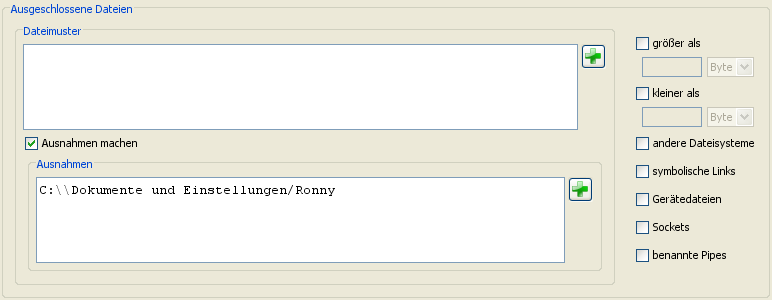
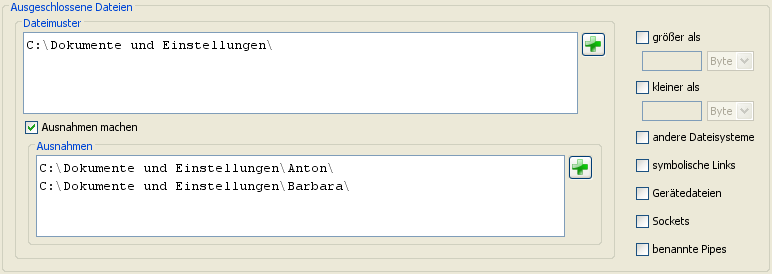
fixed sanity check on Windows with Java 7 updated Italian windows screenshots improved screenshot generation

diff --git a/src/ch/fhnw/jbackpack/BackupMainPanel.java b/src/ch/fhnw/jbackpack/BackupMainPanel.java
@@ -1180,6 +1180,7 @@ public class BackupMainPanel extends JPanel implements DocumentListener {
         filePatternsPanel.setBorder(javax.swing.BorderFactory.createTitledBorder(bundle.getString("BackupMainPanel.filePatternsPanel.border.title"))); // NOI18N
         filePatternsPanel.setLayout(new java.awt.GridBagLayout());
 
+        excludesTextArea.setName("excludesTextArea");
         excludesScrollPane.setViewportView(excludesTextArea);
 
         gridBagConstraints = new java.awt.GridBagConstraints();
@@ -1203,6 +1204,7 @@ public class BackupMainPanel extends JPanel implements DocumentListener {
         filePatternsPanel.add(addExcludesButton, gridBagConstraints);
 
         includesCheckBox.setText(bundle.getString("BackupMainPanel.includesCheckBox.text")); // NOI18N
+        includesCheckBox.setName("includesCheckBox");
         includesCheckBox.addItemListener(new java.awt.event.ItemListener() {
             public void itemStateChanged(java.awt.event.ItemEvent evt) {
                 includesCheckBoxItemStateChanged(evt);
@@ -1216,6 +1218,7 @@ public class BackupMainPanel extends JPanel implements DocumentListener {
         includesPanel.setBorder(javax.swing.BorderFactory.createTitledBorder(bundle.getString("BackupMainPanel.includesPanel.border.title"))); // NOI18N
         includesPanel.setLayout(new java.awt.GridBagLayout());
 
+        includesTextArea.setName("includesTextArea");
         includesScrollPane.setViewportView(includesTextArea);
 
         gridBagConstraints = new java.awt.GridBagConstraints();
@@ -2447,6 +2450,7 @@ public class BackupMainPanel extends JPanel implements DocumentListener {
 
         gridBagConstraints = new java.awt.GridBagConstraints();
         gridBagConstraints.gridwidth = java.awt.GridBagConstraints.REMAINDER;
+        gridBagConstraints.ipadx = 40;
         gridBagConstraints.insets = new java.awt.Insets(5, 0, 0, 0);
         sessionStatisticsPanel.add(statisticsTextFieldScrollPane, gridBagConstraints);
 
@@ -3827,12 +3831,16 @@ public class BackupMainPanel extends JPanel implements DocumentListener {
         }
 
         // check that user can change permissions of this directory
-        if (sourceDirectory.setWritable(false)) {
-            sourceDirectory.setWritable(true);
-        } else {
-            showRestoreErrorPanel(BUNDLE.getString(
-                    "Error_Source_Directory_Unmodifiable"));
-            return false;
+        // This test does not work on Windows, see
+        // http://bugs.sun.com/bugdatabase/view_bug.do?bug_id=6728842
+        if (CurrentOperatingSystem.OS != OperatingSystem.Windows) {
+            if (sourceDirectory.setWritable(false)) {
+                sourceDirectory.setWritable(true);
+            } else {
+                showRestoreErrorPanel(BUNDLE.getString(
+                        "Error_Source_Directory_Unmodifiable"));
+                return false;
+            }
         }
 
         return true;

diff --git a/test/screenshots/Screenshots.java b/test/screenshots/Screenshots.java
@@ -80,6 +80,8 @@ public final class Screenshots {
      * @param encryptionControlFileName the filename for the encryption control
      * screenshot
      * @param basicBackupFileName the filename for the basic backup screenshot
+     * @param excludes the excludes
+     * @param includes the includes
      * @param excludesFileName the filename for the excludes screenshot
      * @param backupFileName the file to show for the running backup screenshot
      * @param runningBackupFilenName the filename of a running backup screenshot
@@ -99,12 +101,12 @@ public final class Screenshots {
             String sshScreenshotFileName, String sshLoggedInFileName,
             String smbShare, String smbScreenshotFileName,
             String encryptionFileName, String encryptionControlFileName,
-            String basicBackupFileName, String excludesFileName,
-            String backupFileName, String runningBackupFilenName,
-            String backupStatisticsFileName, String restoreFileName,
-            String advancedSettingsFileName, String fileMenuFileName,
-            String preferences1FileName, String preferences2FileName)
-            throws Exception {
+            String basicBackupFileName, String excludes, String includes,
+            String excludesFileName, String backupFileName,
+            String runningBackupFilenName, String backupStatisticsFileName,
+            String restoreFileName, String advancedSettingsFileName,
+            String fileMenuFileName, String preferences1FileName,
+            String preferences2FileName) throws Exception {
 
         // make sure that path exists
         File directory = new File(screenshotPath);
@@ -319,6 +321,15 @@ public final class Screenshots {
         JCheckBoxOperator excludeCheckBoxOperator = new JCheckBoxOperator(
                 frameOperator, new NameComponentChooser("excludeCheckBox"));
         excludeCheckBoxOperator.setSelected(true);
+        JTextAreaOperator excludesTextAreaOperator = new JTextAreaOperator(
+                frameOperator, new NameComponentChooser("excludesTextArea"));
+        excludesTextAreaOperator.setText(excludes);
+        JCheckBoxOperator includeCheckBoxOperator = new JCheckBoxOperator(
+                frameOperator, new NameComponentChooser("includesCheckBox"));
+        includeCheckBoxOperator.setSelected(true);
+        JTextAreaOperator includesTextAreaOperator = new JTextAreaOperator(
+                frameOperator, new NameComponentChooser("includesTextArea"));
+        includesTextAreaOperator.setText(includes);
         JComponentOperator excludesPanelOperator = new JComponentOperator(
                 frameOperator, new NameComponentChooser("excludesPanel"));
         if (excludesFileName != null) {

diff --git a/test/screenshots/GermanScreenshotTest.java b/test/screenshots/GermanScreenshotTest.java
@@ -50,16 +50,21 @@ public class GermanScreenshotTest extends TestCase {
 
         switch (CurrentOperatingSystem.OS) {
             case Linux:
-                doScreenShots("nimbus", "/home/benutzer/", "verzeichnis/datei");
+                doScreenShots("nimbus", "/home/benutzer/", "/home/",
+                        "/home/anton/\n/home/barbara/", "verzeichnis/datei");
                 break;
 
             case Mac_OS_X:
-                doScreenShots("aqua", "/Users/benutzer/", "verzeichnis/datei");
+                doScreenShots("aqua", "/Users/benutzer/", "/Users/",
+                        "/Users/anton/\n/Users/barbara/", "verzeichnis/datei");
                 break;
 
             case Windows:
                 doScreenShots("windows",
                         "C:\\Dokumente und Einstellungen\\Benutzer\\",
+                        "C:\\Dokumente und Einstellungen\\",
+                        "C:\\Dokumente und Einstellungen\\Anton\\\n"
+                        + "C:\\Dokumente und Einstellungen\\Barbara\\",
                         "Verzeichnis\\Datei");
                 break;
 
@@ -69,15 +74,15 @@ public class GermanScreenshotTest extends TestCase {
         }
     }
 
-    private void doScreenShots(String plaf, String userHome, String backupFile)
-            throws Exception {
+    private void doScreenShots(String plaf, String userHome, String excludes,
+            String includes, String backupFile) throws Exception {
         Screenshots.doScreenShots(Locale.GERMAN, "doc/docbook/" + plaf + "/de/",
                 userHome, "Hauptfenster", "benutzer", "/datensicherung", "SSH",
                 "Angemeldet", "datensicherung", "SMB", "Verschluesselung",
-                "VerschluesselungSteuerung", "Datensicherung",
-                "DateienAusschliessen", backupFile, "Laufende_Datensicherung",
-                "Datensicherungsstatistik", "Wiederherstellung",
-                "Erweiterte_Einstellungen", "DateiMenue", "Einstellungen1",
-                "Einstellungen2");
+                "VerschluesselungSteuerung", "Datensicherung", excludes,
+                includes, "DateienAusschliessen", backupFile,
+                "Laufende_Datensicherung", "Datensicherungsstatistik",
+                "Wiederherstellung", "Erweiterte_Einstellungen", "DateiMenue",
+                "Einstellungen1", "Einstellungen2");
     }
 }

diff --git a/test/screenshots/ItalianScreenshotTest.java b/test/screenshots/ItalianScreenshotTest.java
@@ -50,16 +50,21 @@ public class ItalianScreenshotTest extends TestCase {
 
         switch (CurrentOperatingSystem.OS) {
             case Linux:
-                doScreenShots("nimbus", "/home/user/", "directory/file");
+                doScreenShots("nimbus", "/home/utente/", "/home/", 
+                        "/home/alice/\n/home/paolo/", "directory/file");
                 break;
 
             case Mac_OS_X:
-                doScreenShots("aqua", "/Users/user/", "directory/file");
+                doScreenShots("aqua", "/Users/utente/", "/Users/",
+                        "/Users/alice/\n/Users/paolo/", "directory/file");
                 break;
 
             case Windows:
                 doScreenShots("windows",
-                        "C:\\Documents and Settings\\User\\",
+                        "C:\\Documenti e Impostazioni\\Utente\\",
+                        "C:\\Documenti e Impostazioni\\",
+                        "C:\\Documenti e Impostazioni\\Alice\\\n"
+                        + "C:\\Documenti e Impostazioni\\Paolo\\",
                         "Directory\\File");
                 break;
 
@@ -69,14 +74,14 @@ public class ItalianScreenshotTest extends TestCase {
         }
     }
 
-    private void doScreenShots(String plaf, String userHome, String backupFile)
-            throws Exception {
+    private void doScreenShots(String plaf, String userHome, String excludes,
+            String includes, String backupFile) throws Exception {
         Screenshots.doScreenShots(Locale.ITALIAN,
                 "doc/docbook/" + plaf + "/it/", userHome, "MainWindow",
                 "user", "/backup", "SSH", "LoggedIn", "backup", "SMB",
-                "Encryption", "EncryptionControl", "Backup", "Excludes",
-                backupFile, "Running_Backup", "Backup_Statistics", "Restore",
-                "Advanced_Settings", "FileMenu", "Preferences1",
+                "Encryption", "EncryptionControl", "Backup", excludes, includes,
+                "Excludes", backupFile, "Running_Backup", "Backup_Statistics",
+                "Restore", "Advanced_Settings", "FileMenu", "Preferences1",
                 "Preferences2");
     }
 }

diff --git a/test/screenshots/EnglishScreenshotTest.java b/test/screenshots/EnglishScreenshotTest.java
@@ -50,16 +50,21 @@ public class EnglishScreenshotTest extends TestCase {
 
         switch (CurrentOperatingSystem.OS) {
             case Linux:
-                doScreenShots("nimbus", "/home/user/", "directory/file");
+                doScreenShots("nimbus", "/home/user/", "/home/", 
+                        "/home/alice/\n/home/bob/", "directory/file");
                 break;
 
             case Mac_OS_X:
-                doScreenShots("aqua", "/Users/user/", "directory/file");
+                doScreenShots("aqua", "/Users/user/", "/Users/",
+                        "/Users/alice/\n/Users/bob/", "directory/file");
                 break;
 
             case Windows:
                 doScreenShots("windows",
                         "C:\\Documents and Settings\\User\\",
+                        "C:\\Documents and Settings\\",
+                        "C:\\Documents and Settings\\Alice\\\n"
+                        + "C:\\Documents and Settings\\Bob\\",
                         "Directory\\File");
                 break;
 
@@ -69,14 +74,14 @@ public class EnglishScreenshotTest extends TestCase {
         }
     }
 
-    private void doScreenShots(String plaf, String userHome, String backupFile)
-            throws Exception {
+    private void doScreenShots(String plaf, String userHome, String excludes,
+            String includes, String backupFile) throws Exception {
         Screenshots.doScreenShots(Locale.ENGLISH,
                 "doc/docbook/" + plaf + "/en/", userHome, "MainWindow",
                 "user", "/backup", "SSH", "LoggedIn", "backup", "SMB",
-                "Encryption", "EncryptionControl", "Backup", "Excludes",
-                backupFile, "Running_Backup", "Backup_Statistics", "Restore",
-                "Advanced_Settings", "FileMenu", "Preferences1",
+                "Encryption", "EncryptionControl", "Backup", excludes, includes,
+                "Excludes", backupFile, "Running_Backup", "Backup_Statistics",
+                "Restore", "Advanced_Settings", "FileMenu", "Preferences1",
                 "Preferences2");
     }
 }

diff --git a/test/screenshots/SwissGermanScreenshotTest.java b/test/screenshots/SwissGermanScreenshotTest.java
@@ -50,16 +50,21 @@ public class SwissGermanScreenshotTest extends TestCase {
 
         switch (CurrentOperatingSystem.OS) {
             case Linux:
-                doScreenShots("nimbus", "/home/benutzer/", "verzeichnis/datei");
+                doScreenShots("nimbus", "/home/benutzer/", "/home/",
+                        "/home/anton/\n/home/barbara/", "verzeichnis/datei");
                 break;
 
             case Mac_OS_X:
-                doScreenShots("aqua", "/Users/benutzer/", "verzeichnis/datei");
+                doScreenShots("aqua", "/Users/benutzer/", "/Users/",
+                        "/Users/anton/\n/Users/barbara/", "verzeichnis/datei");
                 break;
 
             case Windows:
                 doScreenShots("windows",
                         "C:\\Dokumente und Einstellungen\\Benutzer\\",
+                        "C:\\Dokumente und Einstellungen\\",
+                        "C:\\Dokumente und Einstellungen\\Anton\\\n"
+                        + "C:\\Dokumente und Einstellungen\\Barbara\\",
                         "Verzeichnis\\Datei");
                 break;
 
@@ -69,12 +74,12 @@ public class SwissGermanScreenshotTest extends TestCase {
         }
     }
 
-    private void doScreenShots(String plaf, String userHome, String backupFile)
-            throws Exception {
+    private void doScreenShots(String plaf, String userHome, String excludes,
+            String includes, String backupFile) throws Exception {
         Screenshots.doScreenShots(new Locale("de", "CH"),
                 "doc/docbook/" + plaf + "/de_CH/", userHome, null, "benutzer",
                 "/datensicherung", null, null, "datensicherung", null, null,
-                null, "Datensicherung", "DateienAusschliessen",
+                null, "Datensicherung", excludes, includes, "DateienAusschliessen",
                 backupFile, null, "Datensicherungsstatistik",
                 "Wiederherstellung", null, null, "Einstellungen1", null);
     }

diff --git a/test/ch/fhnw/jbackpack/RestoreTest.java b/test/ch/fhnw/jbackpack/RestoreTest.java
@@ -149,7 +149,12 @@ public class RestoreTest extends TestCase {
         JListOperator backupsListOperator = new JListOperator(frameOperator,
                 new NameComponentChooser("backupsList"));
         ListModel model = backupsListOperator.getModel();
+        int waitCount = 0;
         while (model.getSize() == 0) {
+            LOGGER.info("model still empty, waiting for a short while...");
+            if (waitCount++ >= 30) {
+                fail("increments were never filled!");
+            }
             Thread.sleep(300);
         }
         Thread.sleep(300);

diff --git a/test/ch/fhnw/jbackpack/IgnoreEmptyIncrementsTest.java b/test/ch/fhnw/jbackpack/IgnoreEmptyIncrementsTest.java
@@ -124,7 +124,12 @@ public class IgnoreEmptyIncrementsTest extends TestCase {
 
         // wait until increments are filled
         ListModel model = backupsListOperator.getModel();
+        int waitCount = 0;
         while (model.getSize() == 0) {
+            LOGGER.info("model still empty, waiting for a short while...");
+            if (waitCount++ >= 30) {
+                fail("increments were never filled!");
+            }
             Thread.sleep(300);
         }
         Thread.sleep(300);
